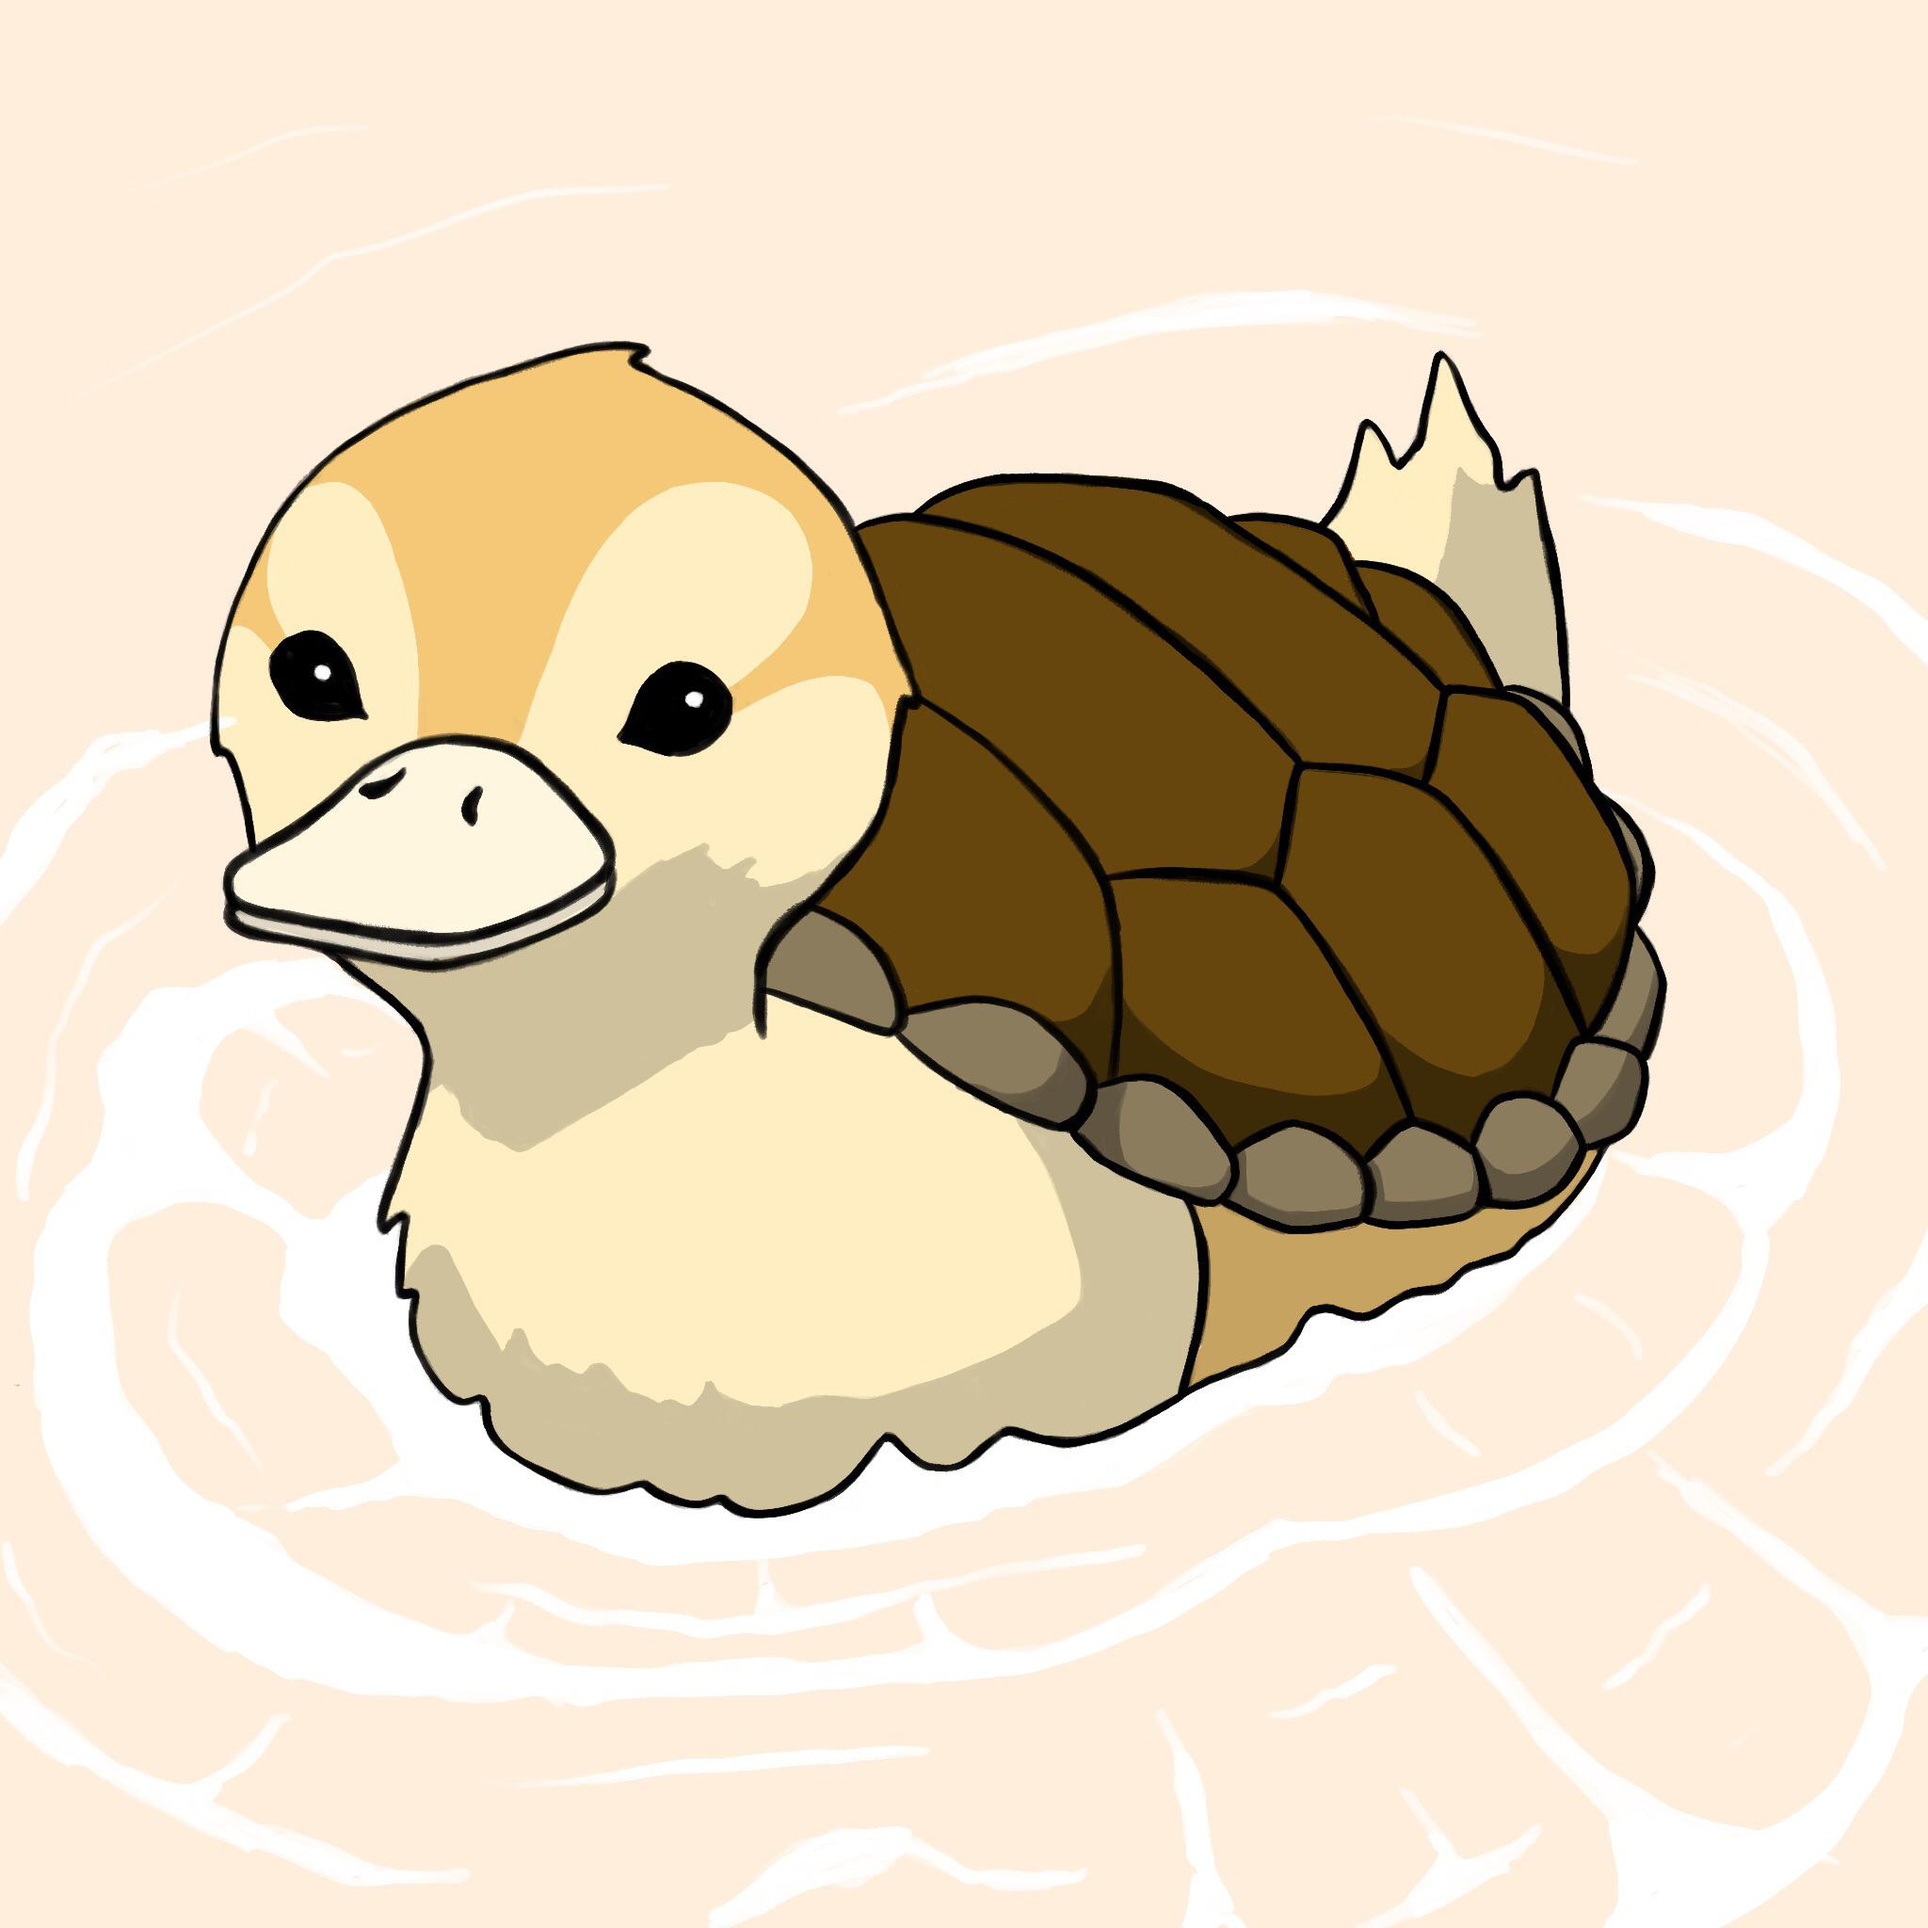
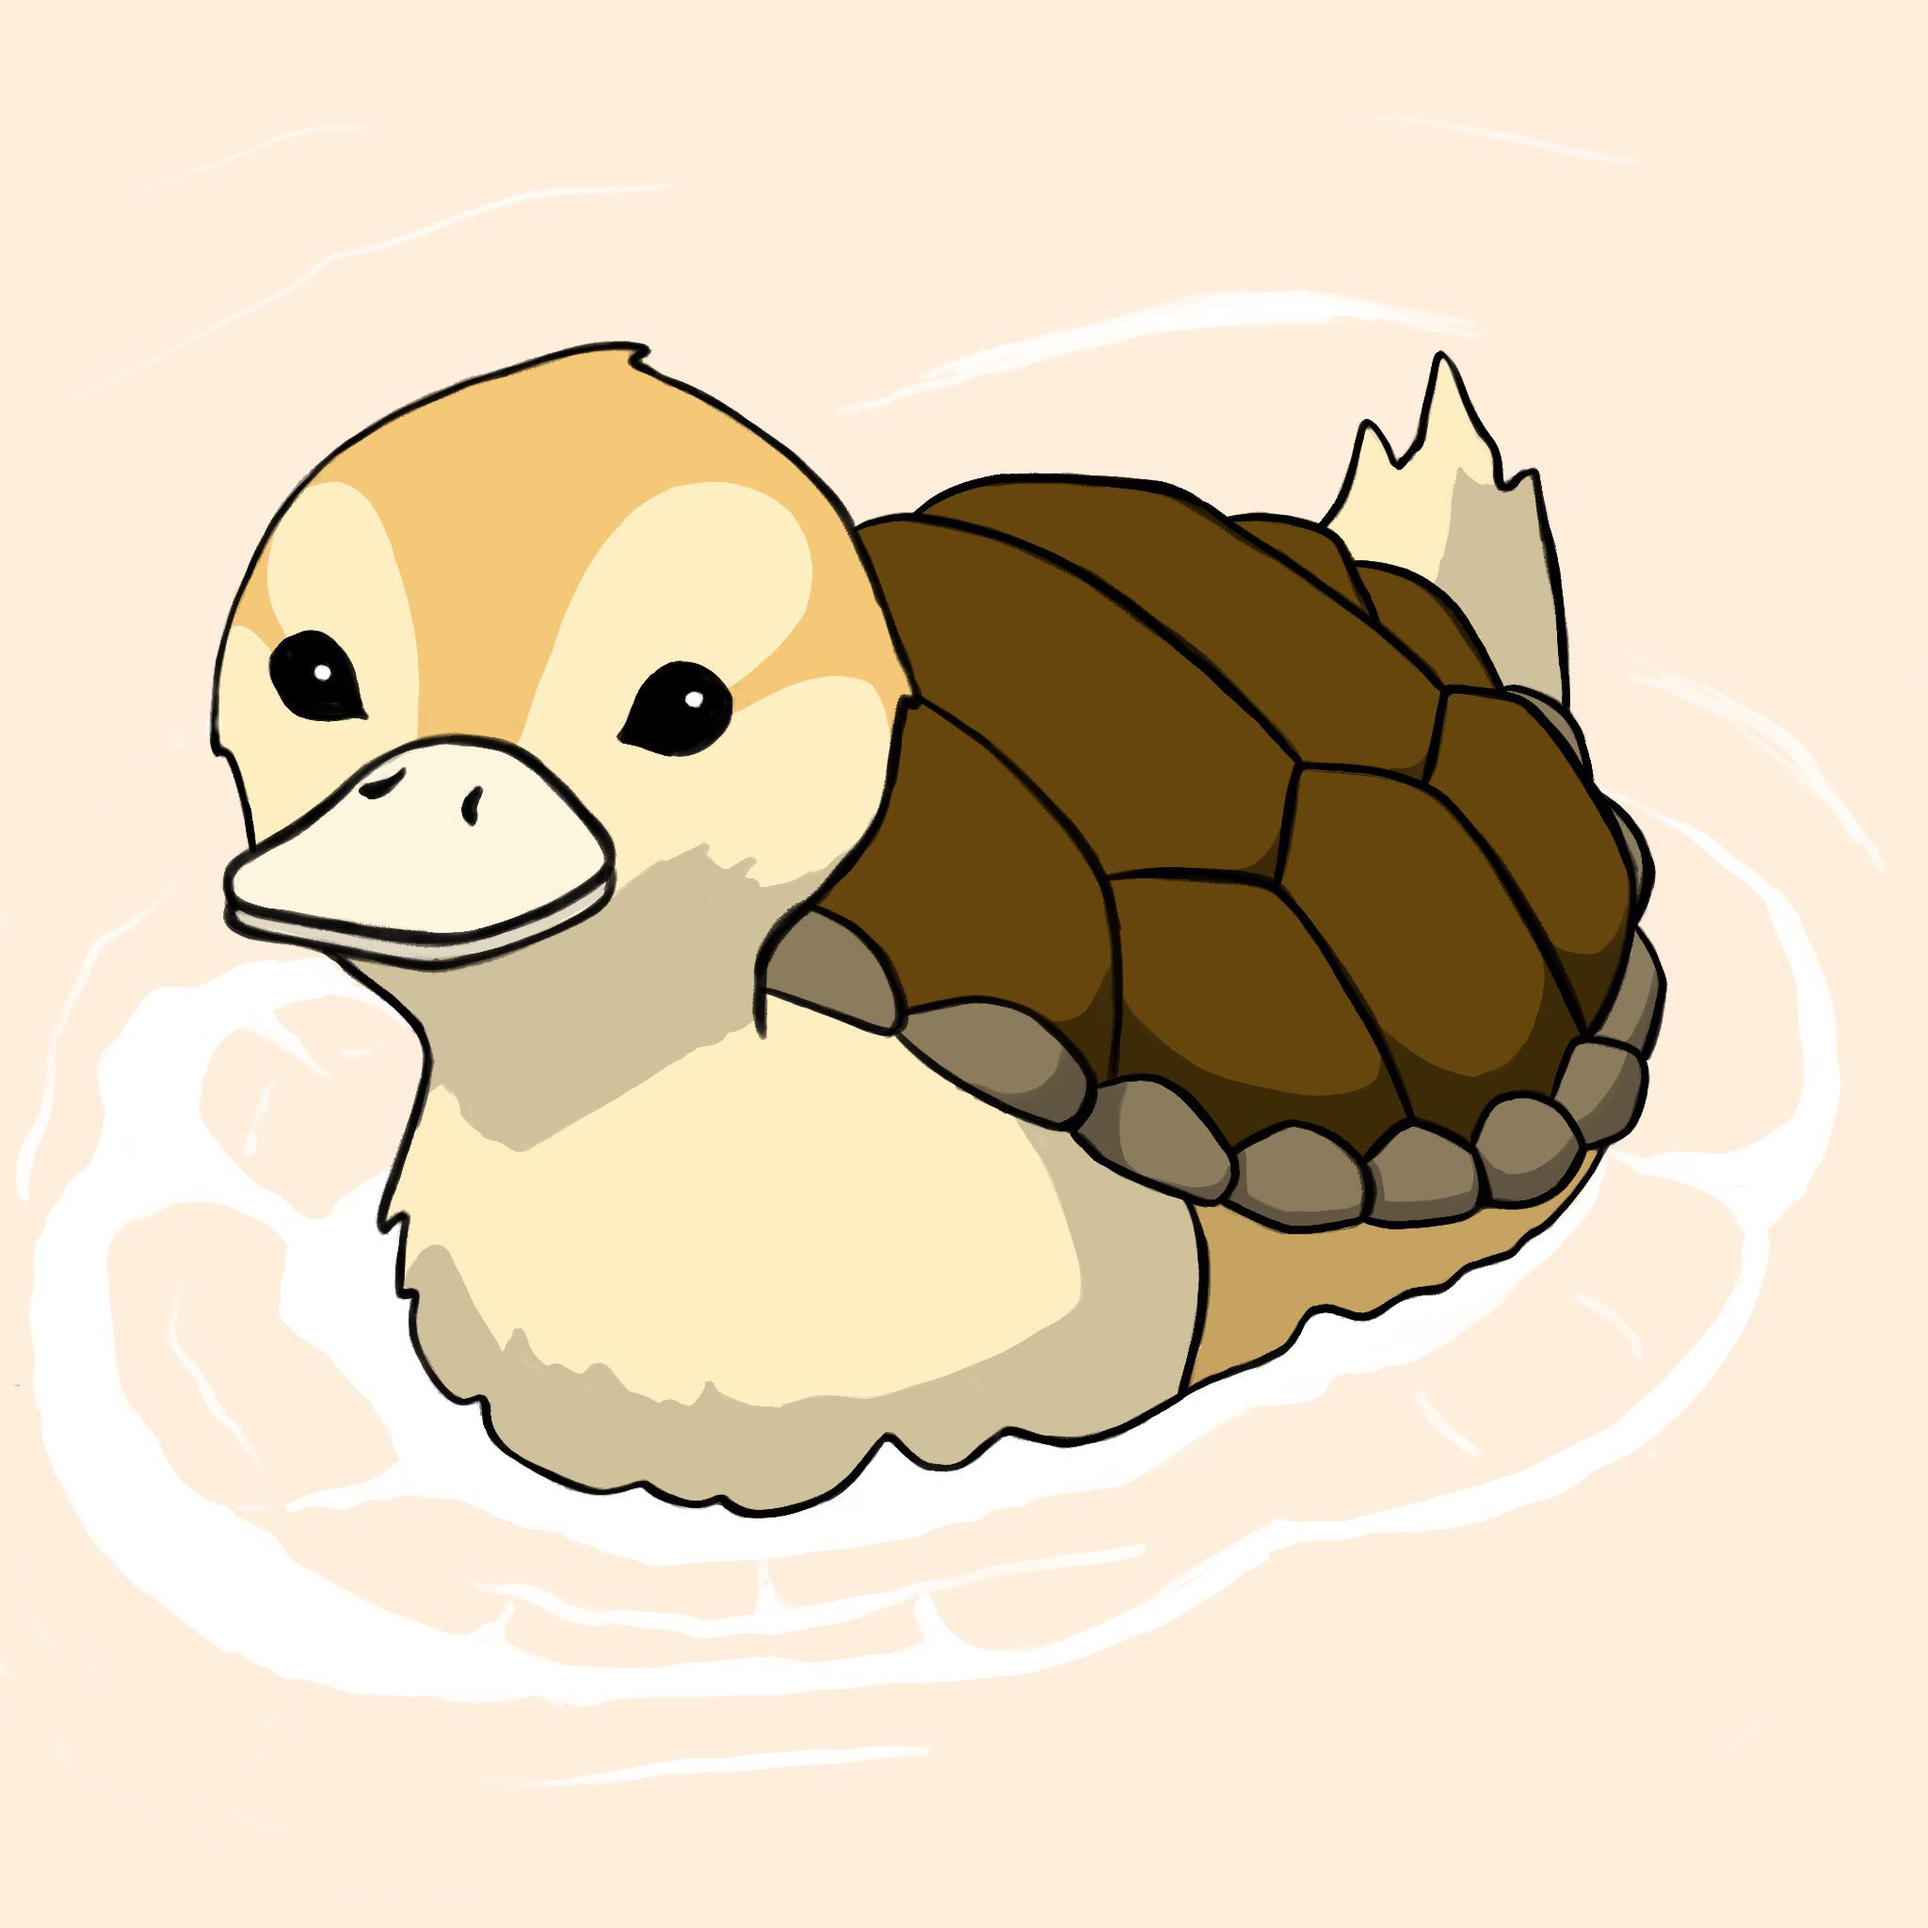
fix: update edited turtle duck with better waves

diff --git a/src/components/Home.tsx b/src/components/Home.tsx
@@ -46,25 +46,22 @@ const Home = (): JSX.Element => {
           </Stack>
         </Grid>
         <Grid size={{ xs: 12, md: 6 }}>
-          <Button
+          <Box
             onClick={() =>
-              window.open("https://github.com/craankism", "_blank")
+              window.open(
+                "https://github.com/craankism/schroedingers_chat",
+                "_blank",
+              )
             }
-            sx={{ "&:hover": { background: "none" } }}
+            sx={{ cursor: "pointer" }}
           >
-            <Box
-              component="img"
+            <img
+              className="content-item logo"
               src={turtleDuck}
-              alt="Turtle Duck from Avatar"
-              sx={{
-                width: { xs: "70vw", md: "30vw" },
-                borderRadius: "50%",
-                "&:hover": {
-                  boxShadow: "0 0 20px #333333",
-                },
-              }}
+              alt="GitLab Link to Repository"
+              style={{ width: "100%" }}
             />
-          </Button>
+          </Box>
         </Grid>
       </Grid>
       <ProjectMenuModal />
